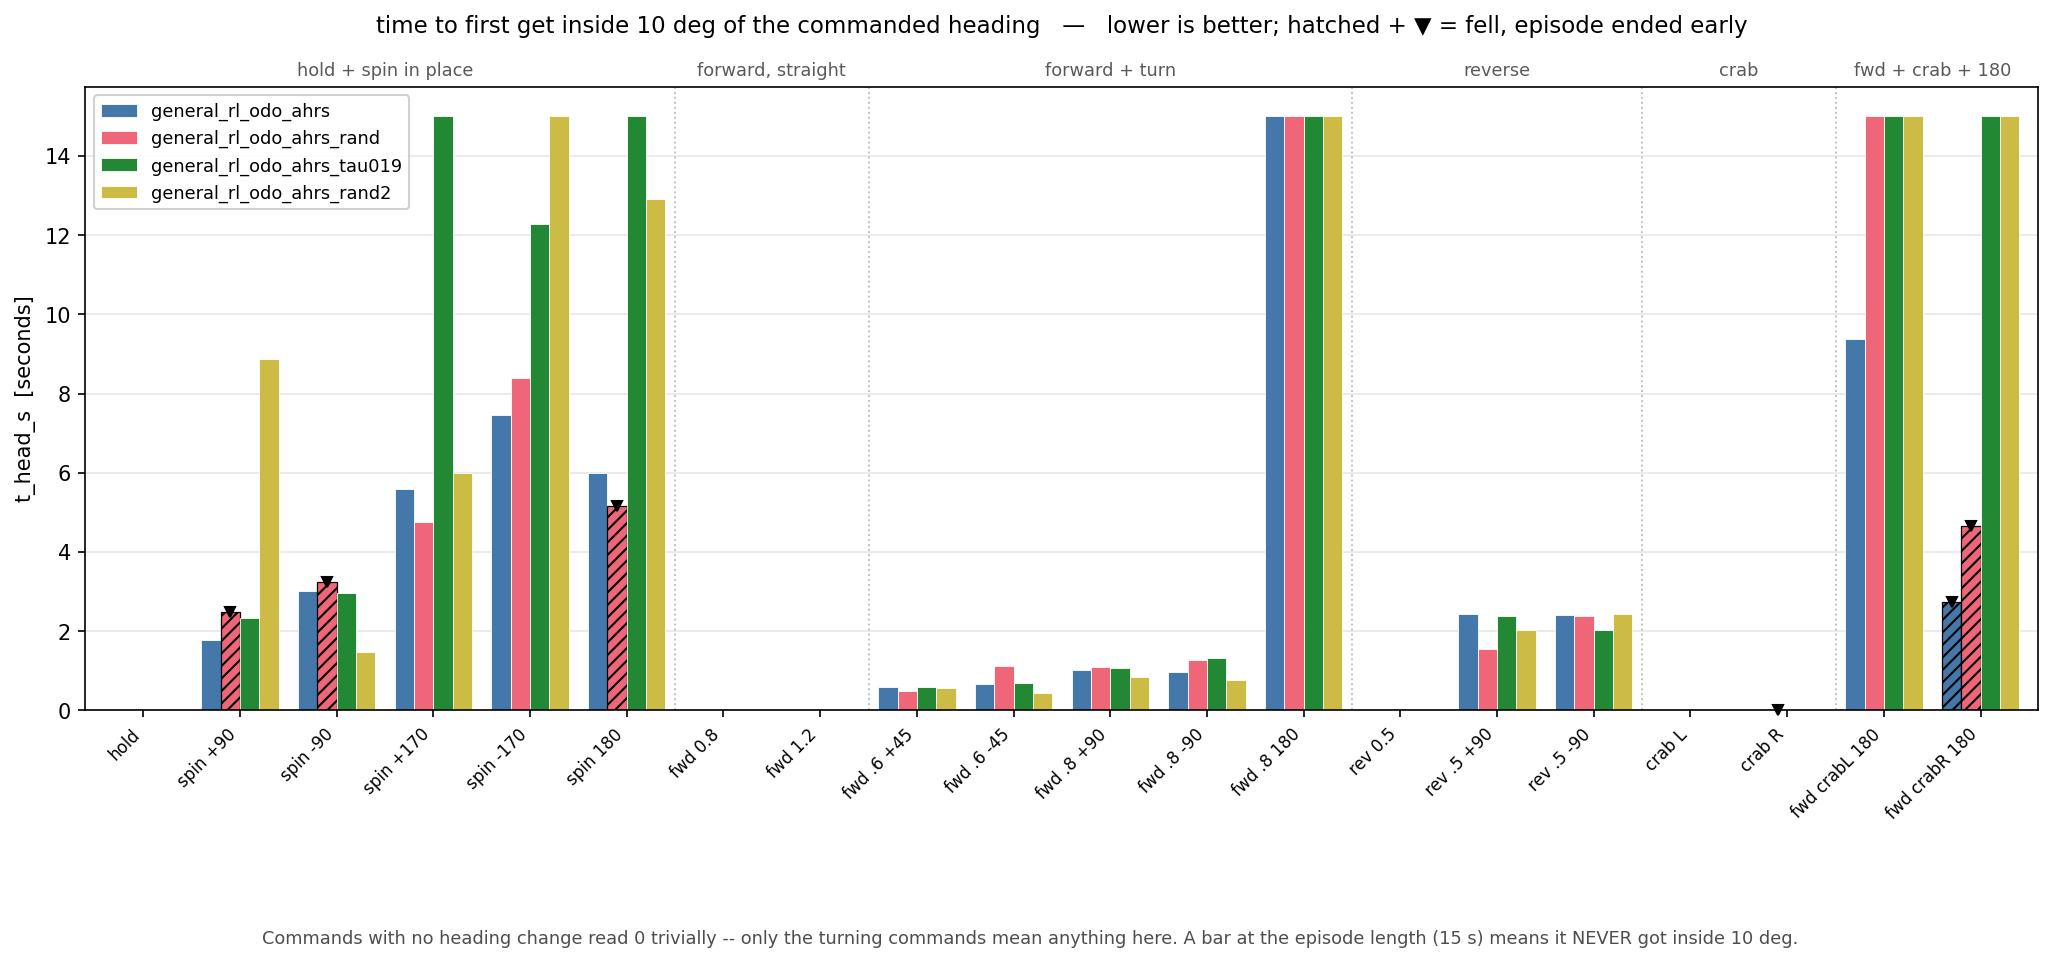
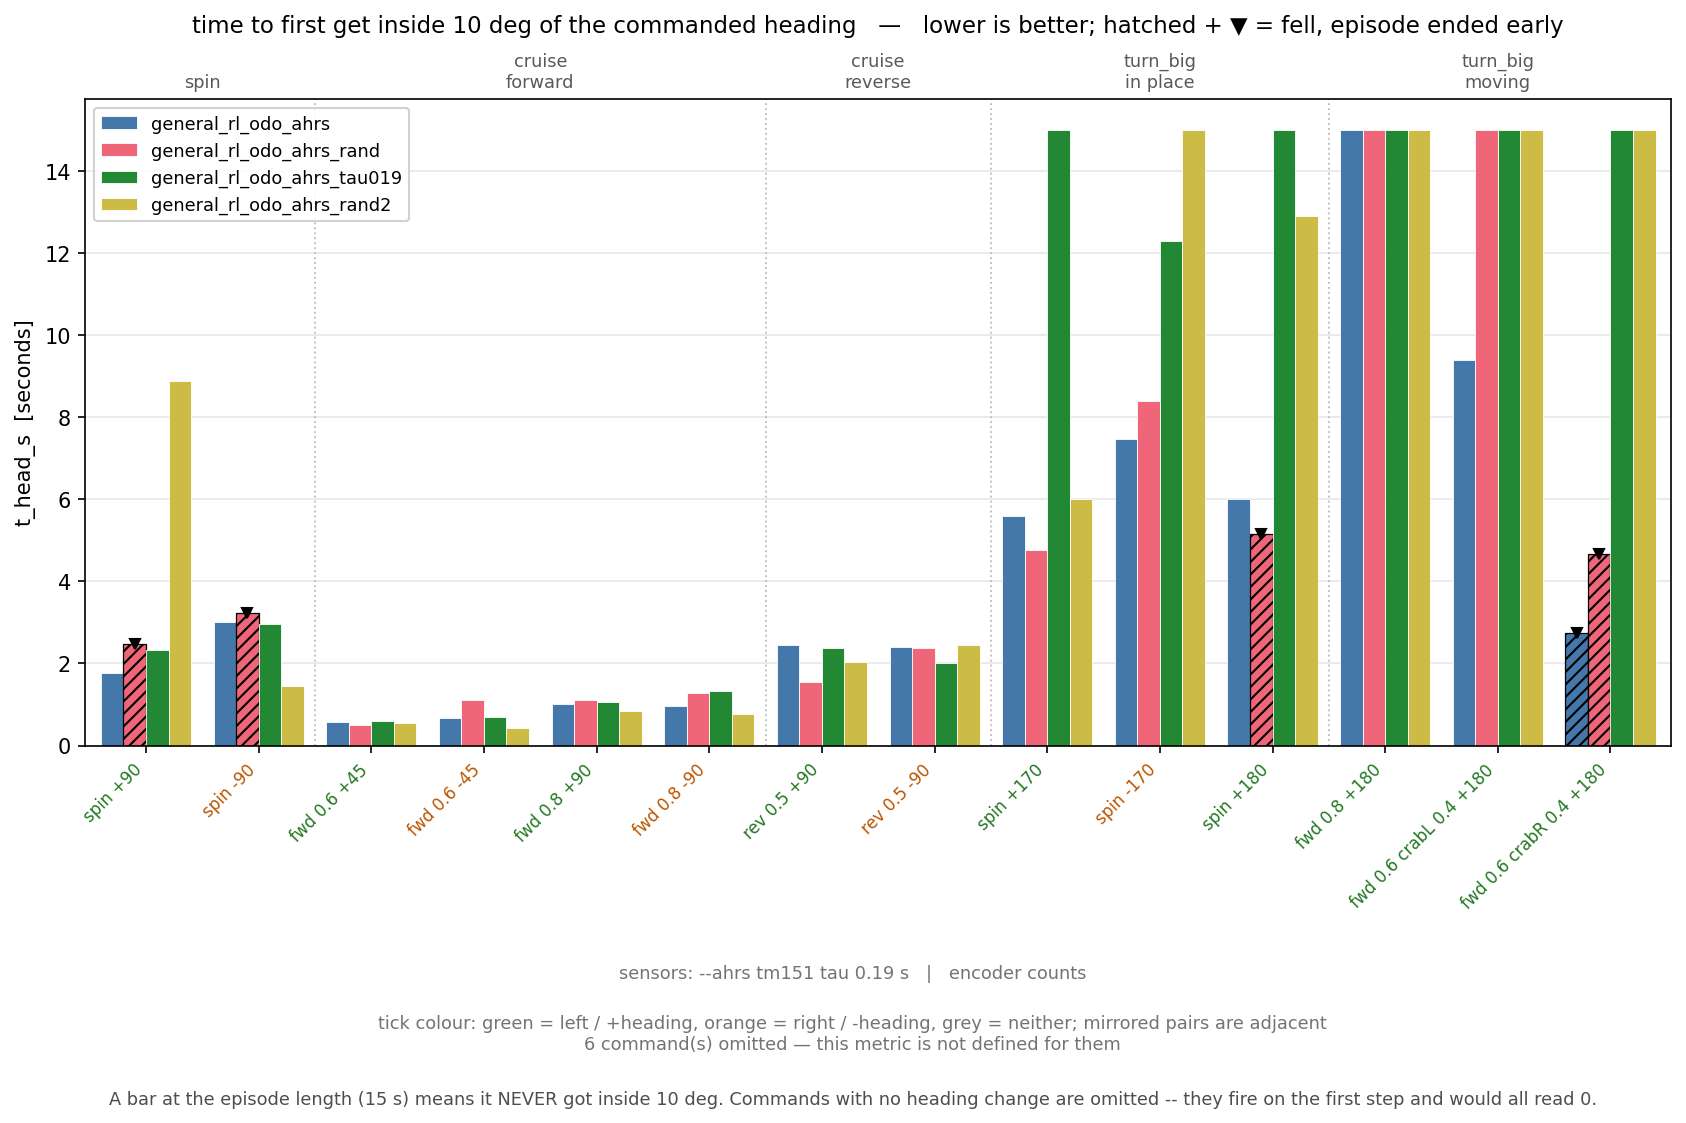
analysis: group the per-command bars by the real families + label generation
Bar graphs now come from train_general_rl.FAMILIES

`cruise` is split forward/reverse and `turn_big` in place/moving.

Subsections are display only and do not change what the yaml reports.

Labels are now derived from the command, and tick colour shows mirror movements.

A bar is dropped only where the metric is undefined, e.g. t_head_s on the six
commands with no heading change.

Adds a drift_overshoot chart (peak minus final), matching the metrics block.

  python analysis/per_command.py
  python analysis/per_command.py --policies general_rl_smooth_diff_pi \
      general_rl_pitch_smooth_diff_pi --ahrs none --encoder ideal --tag ideal

INVALIDATED: nothing.

Asked for as "sort by family now, cruise should have subsections forward and
backward, indicate which are L/R, and remove only the irrelevant ones". The
generated labels and the handedness colouring are Claude Opus 5's
<claude@anthropic.ai>.

diff --git a/analysis/per_command.py b/analysis/per_command.py
@@ -47,7 +47,7 @@ sys.path.insert(0, str(Path(__file__).resolve().parent))
 
 from aow_sim.build_model import load_params
 from aow_sim.control.general_env import _load_rl_config
-from aow_sim.train_general_rl import _eval_episodes, eval_cmds
+from aow_sim.train_general_rl import FAMILIES, _eval_episodes, eval_cmds
 from rsa_policies import REPO, env_for, load_general
 
 PLOTS = Path(__file__).resolve().parent / "plots"
@@ -66,48 +66,74 @@ DEFAULT_POLICIES = ("general_rl_odo_ahrs",
 # pairwise far more often than they are read as a sequence.
 COLORS = ("#4477aa", "#ee6677", "#228833", "#ccbb44", "#66ccee")
 
-# Command families, in plot order, with the grid index of each member and a
-# short label. Mirrored pairs are adjacent ON PURPOSE -- see the docstring.
-# The indices are into eval_cmds(v_max) and are checked against the actual
-# command tuple at run time, so a change to the grid fails loudly instead of
-# silently mislabelling every bar.
-GROUPS = [
-    ("hold + spin in place", [
-        (0, "hold", (0.0, 0.0, 0)), (1, "spin +90", (0.0, 0.0, 90)),
-        (14, "spin -90", (0.0, 0.0, -90)), (12, "spin +170", (0.0, 0.0, 170)),
-        (13, "spin -170", (0.0, 0.0, -170)), (2, "spin 180", (0.0, 0.0, 180)),
-    ]),
-    ("forward, straight", [
-        (3, "fwd 0.8", (0.804, 0.0, 0)), (6, "fwd 1.2", (1.2, 0.0, 0)),
-    ]),
-    ("forward + turn", [
-        (10, "fwd .6 +45", (0.6, 0.0, 45)), (18, "fwd .6 -45", (0.6, 0.0, -45)),
-        (4, "fwd .8 +90", (0.804, 0.0, 90)),
-        (15, "fwd .8 -90", (0.804, 0.0, -90)),
-        (5, "fwd .8 180", (0.804, 0.0, 180)),
-    ]),
-    ("reverse", [
-        (7, "rev 0.5", (-0.504, 0.0, 0)),
-        (8, "rev .5 +90", (-0.504, 0.0, 90)),
-        (16, "rev .5 -90", (-0.504, 0.0, -90)),
-    ]),
-    ("crab", [
-        (9, "crab L", (0.0, 0.396, 0)), (17, "crab R", (0.0, -0.396, 0)),
-    ]),
-    ("fwd + crab + 180", [
-        (11, "fwd crabL 180", (0.6, 0.396, 180)),
-        (19, "fwd crabR 180", (0.6, -0.396, 180)),
-    ]),
-]
+# Subsections WITHIN a family, in plot order. The families themselves come
+# from train_general_rl.FAMILIES -- imported, never restated, so a chart and a
+# moves/*.yaml metrics block cannot disagree about what `cruise` means.
+#
+# A family is subdivided only where its members are two different manoeuvres:
+# `cruise` splits forward from reverse, and `turn_big` splits the in-place
+# reversals from the moving ones (measured 13.5 deg against 174.0 for
+# general_rl_odo_ahrs -- the two halves are not the same task). Everything
+# else is left whole. Subsections are display only; they do not change what
+# the yaml reports.
+SUBSECTIONS = {
+    "cruise": [("forward", lambda c: c[0] > 0), ("reverse", lambda c: c[0] < 0)],
+    "turn_big": [("in place", lambda c: c[0] == 0 and c[1] == 0),
+                 ("moving", lambda c: c[0] != 0 or c[1] != 0)],
+}
+
+# Which commands a metric is DEFINED for. A bar is dropped only where the
+# number is not a measurement of anything -- `t_head_s` on a command with no
+# heading change fires on the first step, so those six bars would read 0 and
+# say nothing. Everything else keeps its slot: drift on a moving command is
+# not in the yaml but is still "how far it went", which is worth seeing.
+VALID = {"t_head_s": lambda c: abs(c[2]) > 1}
+
+
+def label_for(cmd):
+    """A label GENERATED from the command, not hand-written.
+
+    The previous version carried a hand-written index-to-label table, which
+    needed a guard against the grid changing under it -- and the guard fired
+    on the first run, because the commands are `round(fraction * v_max, 3)`
+    and the nominal 0.8 m/s is really 0.804. Deriving the label removes the
+    class of error rather than detecting it.
+    """
+    v_lon, v_lat, dpsi = cmd[0], cmd[1], cmd[2]
+    head = f"{dpsi:+.0f}" if abs(dpsi) > 1 else ""
+    if v_lon == 0 and v_lat == 0:
+        return f"spin {head}" if head else "hold"
+    # .rstrip("0") alone turns 1.00 into "1." -- strip the point too.
+    num = lambda v: f"{abs(v):.2f}".rstrip("0").rstrip(".")
+    parts = []
+    if abs(v_lon) > 1e-9:
+        parts.append(f"{'fwd' if v_lon > 0 else 'rev'} {num(v_lon)}")
+    if abs(v_lat) > 1e-9:
+        parts.append(f"crab{'L' if v_lat > 0 else 'R'} {num(v_lat)}")
+    return " ".join(parts + ([head] if head else []))
+
+
+def hand_of(cmd):
+    """+1 left, -1 right, 0 neither -- for the tick colour, so a mirrored pair
+    is visible as a pair without reading the numbers."""
+    if abs(cmd[2]) > 1:
+        return 1 if cmd[2] > 0 else -1
+    if abs(cmd[1]) > 1e-9:
+        return 1 if cmd[1] > 0 else -1
+    return 0
+
+
+HAND_COLOR = {1: "#227722", -1: "#bb5500", 0: "0.35"}
+
 
 # metric key -> (axis label, title, footnote). Lower is better for all of
 # them, so that is said once in the title rather than stored per metric.
 METRICS = {
     "t_head_s": ("seconds", "time to first get inside 10 deg of the commanded "
                             "heading",
-                 "Commands with no heading change read 0 trivially -- only the "
-                 "turning commands mean anything here. A bar at the episode "
-                 "length (15 s) means it NEVER got inside 10 deg."),
+                 "A bar at the episode length (15 s) means it NEVER got "
+                 "inside 10 deg. Commands with no heading change are omitted "
+                 "-- they fire on the first step and would all read 0."),
     "head_err_med": ("degrees", "heading error, MEDIAN over the episode",
                      "How well it holds heading, typically. Not the last-step "
                      "value the moves/*.yaml metrics blocks carry."),
@@ -123,8 +149,14 @@ METRICS = {
                             "settled last 2 s",
                      "Same step-command argument as head_err_tail: a whole-"
                      "episode max would just report |v_cmd|."),
-    "drift_m": ("m", "drift from the commanded position, at the END", ""),
+    "drift_m": ("m", "drift from the commanded position, at the END",
+                "Only `hold` reaches the moves/*.yaml block, but the number is "
+                "defined everywhere and is still `how far it went`."),
     "drift_max": ("m", "drift from the commanded position, PEAK", ""),
+    "drift_overshoot": ("m", "drift OVERSHOOT -- peak minus final",
+                        "0 means it left and kept going; > 0 means it "
+                        "wandered out and came back. Replaces drift_max, "
+                        "which equalled drift_m in 3 of 4 policies."),
     "drift_sd": ("m", "drift SD over the episode",
                  "Read WITH drift_max against drift_m: peak well above final "
                  "means it wandered out and came back, the two nearly equal "
@@ -133,30 +165,40 @@ METRICS = {
 
 
 def order_and_labels(cmds):
-    """(grid indices in plot order, bar labels, group spans) from GROUPS.
+    """(grid indices in plot order, labels, spans) from FAMILIES.
 
-    Verifies every entry against the live grid: the labels are hand-written
-    and a silently mislabelled bar is worse than no chart. Note the commands
-    are `round(fraction * v_max, 3)`, so the nominal 0.8 m/s is really 0.804
-    and 0.4 m/s of crab is 0.396 -- the LABELS round, the check does not.
+    Mirrored pairs are adjacent inside every subsection -- sorted by turn
+    magnitude then by sign, positive first -- so a symmetric policy makes each
+    pair the same height and handedness reads off the chart without computing
+    turn_asym.
     """
     idx, labels, spans = [], [], []
-    for name, members in GROUPS:
-        start = len(idx)
-        for k, label, want in members:
-            v_lon, v_lat, dpsi = cmds[k]
-            got = (round(v_lon, 3), round(v_lat, 3),
-                   int(round(np.degrees(dpsi))))
-            if got != (round(want[0], 3), round(want[1], 3), want[2]):
-                raise SystemExit(
-                    f"eval grid changed: index {k} is {got}, GROUPS says "
-                    f"{want} ({label!r}). Fix GROUPS in this script rather "
-                    f"than the labels -- see the docstring.")
-            idx.append(k)
-            labels.append(label)
-        spans.append((name, start, len(idx)))
+    for fam, pred in FAMILIES.items():
+        members = [k for k, c in enumerate(cmds)
+                   if pred((round(c[0], 3), round(c[1], 3),
+                            int(round(np.degrees(c[2])))))]
+        if not members:
+            continue
+        subs = SUBSECTIONS.get(fam, [("", lambda c: True)])
+        for sub_name, sub_pred in subs:
+            sel = [k for k in members
+                   if sub_pred((cmds[k][0], cmds[k][1],
+                                np.degrees(cmds[k][2])))]
+            if not sel:
+                continue
+            sel.sort(key=lambda k: (abs(round(np.degrees(cmds[k][2]))),
+                                    abs(cmds[k][1]), abs(cmds[k][0]),
+                                    -np.degrees(cmds[k][2]), -cmds[k][1]))
+            start = len(idx)
+            idx += sel
+            labels += [label_for((cmds[k][0], cmds[k][1],
+                                  np.degrees(cmds[k][2]))) for k in sel]
+            spans.append((f"{fam}\n{sub_name}" if sub_name else fam,
+                          start, len(idx)))
     if len(idx) != len(cmds):
-        raise SystemExit(f"GROUPS covers {len(idx)} of {len(cmds)} commands")
+        raise SystemExit(
+            f"FAMILIES covers {len(idx)} of {len(cmds)} commands -- one falls "
+            f"through every predicate and would be invisible")
     return idx, labels, spans
 
 
@@ -221,62 +263,91 @@ def run(names, encoder, ahrs, tau):
 
 def plot(metric, out, idx, labels, spans, args):
     unit, title, note = METRICS[metric]
+    cmds = eval_cmds(_cfg_for(args.ahrs, args.ahrs_tau)["env"]["v_max"])
+    deg = lambda k: (cmds[k][0], cmds[k][1], np.degrees(cmds[k][2]))
+
+    # Drop only the bars this metric is not DEFINED for, and renumber the
+    # spans around the gap. Every other command keeps its slot: drift on a
+    # moving command never reaches the yaml but is still "how far it went".
+    valid = VALID.get(metric)
+    keep = [i for i, k in enumerate(idx) if valid is None or valid(deg(k))]
+    if not keep:
+        return None
+    remap = {o: n for n, o in enumerate(keep)}
+    idx_v = [idx[i] for i in keep]
+    lab_v = [labels[i] for i in keep]
+    spans_v = []
+    for name, a_, b_ in spans:
+        inside = [remap[i] for i in keep if a_ <= i < b_]
+        if inside:
+            spans_v.append((name, min(inside), max(inside) + 1))
+    dropped = len(idx) - len(idx_v)
+
     names = list(out)
     n = len(names)
-    x = np.arange(len(idx))
+    x = np.arange(len(idx_v))
     width = 0.8 / n
 
-    # Width follows the number of COMMAND SLOTS, with a small allowance per
-    # policy for the extra bars in each slot. Scaling by slots x policies
-    # (the obvious formula) asks for a 50-inch canvas at four policies.
-    fig, ax = plt.subplots(figsize=(max(12.0, 0.62 * len(idx) + 1.1 * n), 5.4))
+    fig, ax = plt.subplots(figsize=(max(12.0, 0.66 * len(idx_v) + 1.1 * n), 5.6))
     for j, name in enumerate(names):
         rows = out[name]
-        vals = [rows[k][metric] for k in idx]
-        fell = [rows[k]["fell"] for k in idx]
+        vals = [(rows[k]["drift_max"] - rows[k]["drift_m"])
+                if metric == "drift_overshoot" else rows[k][metric]
+                for k in idx_v]
+        fell = [rows[k]["fell"] for k in idx_v]
         pos = x + (j - (n - 1) / 2) * width
         ax.bar(pos, vals, width, label=name, color=COLORS[j % len(COLORS)],
                edgecolor="white", linewidth=0.4)
         # A fallen episode ended early, so its bar is a different quantity.
         # Hatch it rather than dropping it: the fall is information.
-        for p, v, f in zip(pos, vals, fell):
+        for p_, v, f in zip(pos, vals, fell):
             if f:
-                ax.bar(p, v, width, color="none", edgecolor="black",
+                ax.bar(p_, v, width, color="none", edgecolor="black",
                        hatch="////", linewidth=0.6)
-                ax.plot(p, v, marker="v", ms=5, color="black", clip_on=False)
+                ax.plot(p_, v, marker="v", ms=5, color="black", clip_on=False)
 
-    for _name, _a, b in spans[:-1]:
-        ax.axvline(b - 0.5, color="0.75", lw=0.9, ls=":")
-    # Group names ride just above the axes in AXES-FRACTION y, with the title
-    # padded clear of them. Placing them at `ylim * 1.02` put them straight
-    # through the title on every chart whose bars reach the top.
-    for name, a, b in spans:
-        ax.annotate(name, xy=((a + b - 1) / 2, 1.012),
+    for _name, _a, b_ in spans_v[:-1]:
+        ax.axvline(b_ - 0.5, color="0.75", lw=0.9, ls=":")
+    for name, a_, b_ in spans_v:
+        ax.annotate(name, xy=((a_ + b_ - 1) / 2, 1.012),
                     xycoords=("data", "axes fraction"), ha="center",
                     va="bottom", fontsize=8.5, color="0.35")
 
     ax.set_xticks(x)
-    ax.set_xticklabels(labels, rotation=45, ha="right", fontsize=8)
+    ax.set_xticklabels(lab_v, rotation=45, ha="right", fontsize=8)
+    # Tick colour is HANDEDNESS: green left / +heading, orange right /
+    # -heading, grey neither. Mirrored pairs sit adjacent, so a symmetric
+    # policy makes each green/orange pair the same height.
+    for t, k in zip(ax.get_xticklabels(), idx_v):
+        t.set_color(HAND_COLOR[hand_of(deg(k))])
+
     ax.set_ylabel(f"{metric}  [{unit}]")
     ax.set_title(f"{title}   —   lower is better; hatched + ▼ = fell, "
-                 f"episode ended early", fontsize=11, pad=26)
-    ax.legend(fontsize=8.5, framealpha=0.9)
+                 f"episode ended early", fontsize=11, pad=32)
+    # Pinned upper-left rather than "best": matplotlib put it centre-top,
+    # on the group annotations. hold/spin are the lowest bars on every
+    # metric, so the top-left corner is reliably free.
+    ax.legend(fontsize=8.5, framealpha=0.9, loc="upper left")
     ax.grid(axis="y", alpha=0.3)
     ax.set_axisbelow(True)
     ax.margins(x=0.01)
-    # The sensor configuration goes ON the figure. Two runs of this script
-    # differing only in --ahrs produce PNGs that are otherwise identical in
-    # every label, and a chart you cannot identify from its own face is a
-    # chart nobody can check.
+
+    foot = ("tick colour: green = left / +heading, orange = right / -heading, "
+            "grey = neither; mirrored pairs are adjacent")
+    if dropped:
+        foot += (f"\n{dropped} command(s) omitted — this metric is not "
+                 f"defined for them")
     sensors = (f"sensors: --ahrs {args.ahrs}"
                + (f" tau {args.ahrs_tau:g} s" if args.ahrs != "none" else "")
                + f"   |   encoder {args.encoder or 'each policy\'s own'}"
                + ("   |   POLICIES READ MUJOCO TRUTH -- no sensor model in "
                   "the loop" if args.ahrs == "none" else ""))
-    fig.text(0.5, -0.12, sensors, ha="center", va="top", fontsize=8.5,
+    fig.text(0.5, -0.15, sensors, ha="center", va="top", fontsize=8.5,
+             color="0.45")
+    fig.text(0.5, -0.21, foot, ha="center", va="top", fontsize=8.5,
              color="0.45")
     if note:
-        fig.text(0.5, -0.17, note, ha="center", va="top", fontsize=8.5,
+        fig.text(0.5, -0.30, note, ha="center", va="top", fontsize=8.5,
                  color="0.3", wrap=True)
 
     path = PLOTS / f"per_command_{metric}{args.tag}.png"
